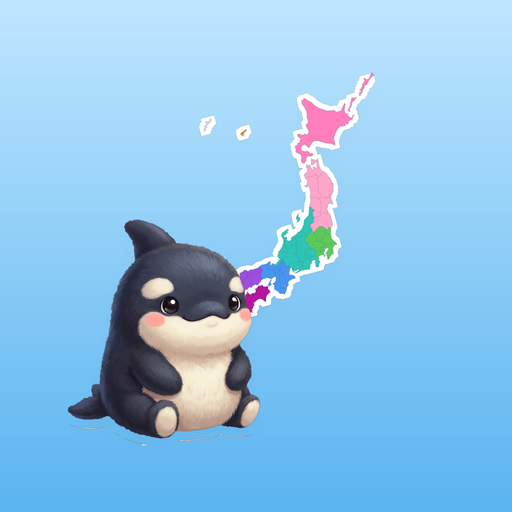
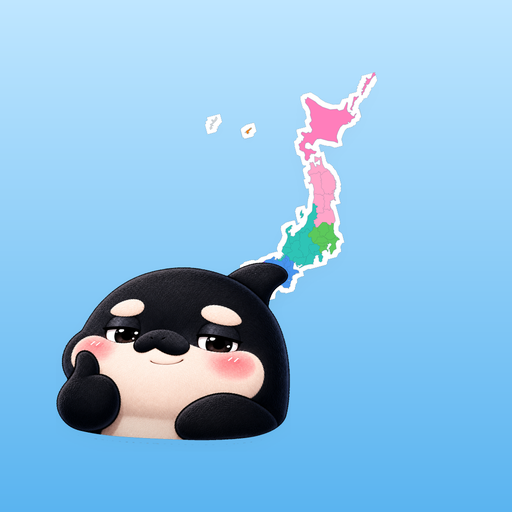
修正

Changed region(s): [[0.0938, 0.125, 0.75, 0.875], [0.375, 0.2188, 0.5, 0.2812]]

diff --git a/app.js b/app.js
@@ -11,6 +11,7 @@ document.head.appendChild(rubyStyle);
 // Preload mascot images to prevent flickering on emotion changes
 const mascotImages = [
   'images/mascot_happy.png',
+  'images/mascot_normal.png',
   'images/mascot_sad.png',
   'images/mascot_success.png'
 ];
@@ -317,14 +318,11 @@ const VoiceSpeech = {
       utterance.voice = jaVoice;
     }
 
-    // High-quality (neural / online) voices stay clear even when pitched up high,
-    // so we can push them to a cute, childlike pitch. Basic/robotic voices distort
-    // and sound "scary" if pitched too high, so we lift them only gently.
-    const isHqVoice = jaVoice && /natural|online|enhanced|premium|google|siri/i.test(jaVoice.name || '');
-
     utterance.lang = 'ja-JP';
-    utterance.rate = isHqVoice ? 1.0 : 0.95;  // light & lively, easy for kids to follow
-    utterance.pitch = isHqVoice ? 1.55 : 1.35; // childlike & cute, without distortion
+    // Keep it a natural, human-sounding voice. Pitching up too much made it sound
+    // unnatural / creepy, so we stay close to a normal speaking pitch & speed.
+    utterance.rate = 1.0;    // normal, natural speaking speed
+    utterance.pitch = 1.05;  // essentially natural, just a touch of warmth
 
     if (onEnd) {
       // Fire on natural end OR on error so the quiz never stalls
@@ -500,7 +498,7 @@ function initUIEvents() {
       delete state.learnedPrefectures[code];
       btnMarkLearned.classList.remove('checked');
       btnMarkLearned.querySelector('.checkbox').innerText = "⬜";
-      updateMascot('mascot-learn-hint', 'mascot-learn-text', 'happy', "もういちど おぼえなおそう！💪🐳");
+      updateMascot('mascot-learn-hint', 'mascot-learn-text', 'normal', "もういちど おぼえなおそう！💪🐳");
     } else {
       state.learnedPrefectures[code] = true;
       btnMarkLearned.classList.add('checked');
@@ -555,23 +553,23 @@ function selectMode(mode) {
     document.querySelector('.info-content-state').style.display = 'none';
     state.selectedCode = null;
     applyRegionFiltering();
-    updateMascot('mascot-learn-empty', null, 'happy', null);
+    updateMascot('mascot-learn-empty', null, 'normal', null);
     VoiceSpeech.speak("ちず を クリック して、しらべて みよう！");
   } else if (mode === 'quiz-a') {
     document.getElementById('quiz-status-bar').classList.add('active');
-    updateMascot('mascot-status', null, 'happy', null);
+    updateMascot('mascot-status', null, 'normal', null);
     startQuiz();
   } else if (mode === 'quiz-b') {
     document.getElementById('quiz-status-bar').classList.add('active');
     document.getElementById('panel-quiz-choices').classList.add('active');
-    updateMascot('mascot-status', null, 'happy', null);
-    updateMascot('mascot-quiz-b', 'mascot-quiz-b-text', 'happy', "光（ひか）っている県（けん）の名前はなあに？下の4つからえらんでね！🐶");
+    updateMascot('mascot-status', null, 'normal', null);
+    updateMascot('mascot-quiz-b', 'mascot-quiz-b-text', 'normal', "光（ひか）っている県（けん）の名前はなあに？下の4つからえらんでね！🐶");
     startQuiz();
   } else if (mode === 'quiz-c') {
     document.getElementById('quiz-status-bar').classList.add('active');
     document.getElementById('panel-quiz-choices').classList.add('active');
-    updateMascot('mascot-status', null, 'happy', null);
-    updateMascot('mascot-quiz-b', 'mascot-quiz-b-text', 'happy', "光（ひか）っている県（けん）の県庁所在地（けんちょうしょざいち）はなあに？下の4つからえらんでね！🐳");
+    updateMascot('mascot-status', null, 'normal', null);
+    updateMascot('mascot-quiz-b', 'mascot-quiz-b-text', 'normal', "光（ひか）っている県（けん）の県庁所在地（けんちょうしょざいち）はなあに？下の4つからえらんでね！🐳");
     startQuiz();
   }
 }
@@ -819,7 +817,7 @@ function inspectPrefecture(code) {
   VoiceSpeech.speak(`${voiceName}。${voiceFact}`);
 
   // Update learn mode mascot hint
-  updateMascot('mascot-learn-hint', 'mascot-learn-text', 'happy', `「${pref.kana}」についておぼえよう！おぼえたらボタンをおしてね！🐳`);
+  updateMascot('mascot-learn-hint', 'mascot-learn-text', 'normal', `「${pref.kana}」についておぼえよう！おぼえたらボタンをおしてね！🐳`);
 }
 
 // Helper to return Furigana Markup
@@ -990,6 +988,8 @@ function updateMascot(mascotId, bubbleId, emotion, text) {
       mascotEl.src = 'images/mascot_success.png';
     } else if (emotion === 'sad') {
       mascotEl.src = 'images/mascot_sad.png';
+    } else if (emotion === 'normal') {
+      mascotEl.src = 'images/mascot_normal.png';
     }
   }
   if (bubbleEl && text) {
@@ -1063,7 +1063,7 @@ function nextQuizQuestion() {
     document.getElementById('quiz-question-text').innerHTML = textHtml;
     
     // Mascot update
-    updateMascot('mascot-status', null, 'happy', null);
+    updateMascot('mascot-status', null, 'normal', null);
     
     // Voice prompt
     VoiceSpeech.speak(`${targetPref.kana}はどこかな？クリックしてね！`);
@@ -1083,8 +1083,8 @@ function nextQuizQuestion() {
     renderChoices();
     
     // Mascot update
-    updateMascot('mascot-status', null, 'happy', null);
-    updateMascot('mascot-quiz-b', 'mascot-quiz-b-text', 'happy', "光（ひか）っている県（けん）の名前はなあに？<br>下の4つからえらんでね！🐳");
+    updateMascot('mascot-status', null, 'normal', null);
+    updateMascot('mascot-quiz-b', 'mascot-quiz-b-text', 'normal', "光（ひか）っている県（けん）の名前はなあに？<br>下の4つからえらんでね！🐳");
     
     // Voice prompt
     VoiceSpeech.speak("光っている県はなんという名前かな？選んでね！");
@@ -1104,8 +1104,8 @@ function nextQuizQuestion() {
     renderChoices();
     
     // Mascot update
-    updateMascot('mascot-status', null, 'happy', null);
-    updateMascot('mascot-quiz-b', 'mascot-quiz-b-text', 'happy', "光（ひか）っている県（けん）の県庁所在地（けんちょうしょざいち）はなあに？<br>下の4つからえらんでね！🐳");
+    updateMascot('mascot-status', null, 'normal', null);
+    updateMascot('mascot-quiz-b', 'mascot-quiz-b-text', 'normal', "光（ひか）っている県（けん）の県庁所在地（けんちょうしょざいち）はなあに？<br>下の4つからえらんでね！🐳");
     
     // Voice prompt
     VoiceSpeech.speak("光っている県の県庁所在地はなんという名前かな？選んでね！");
